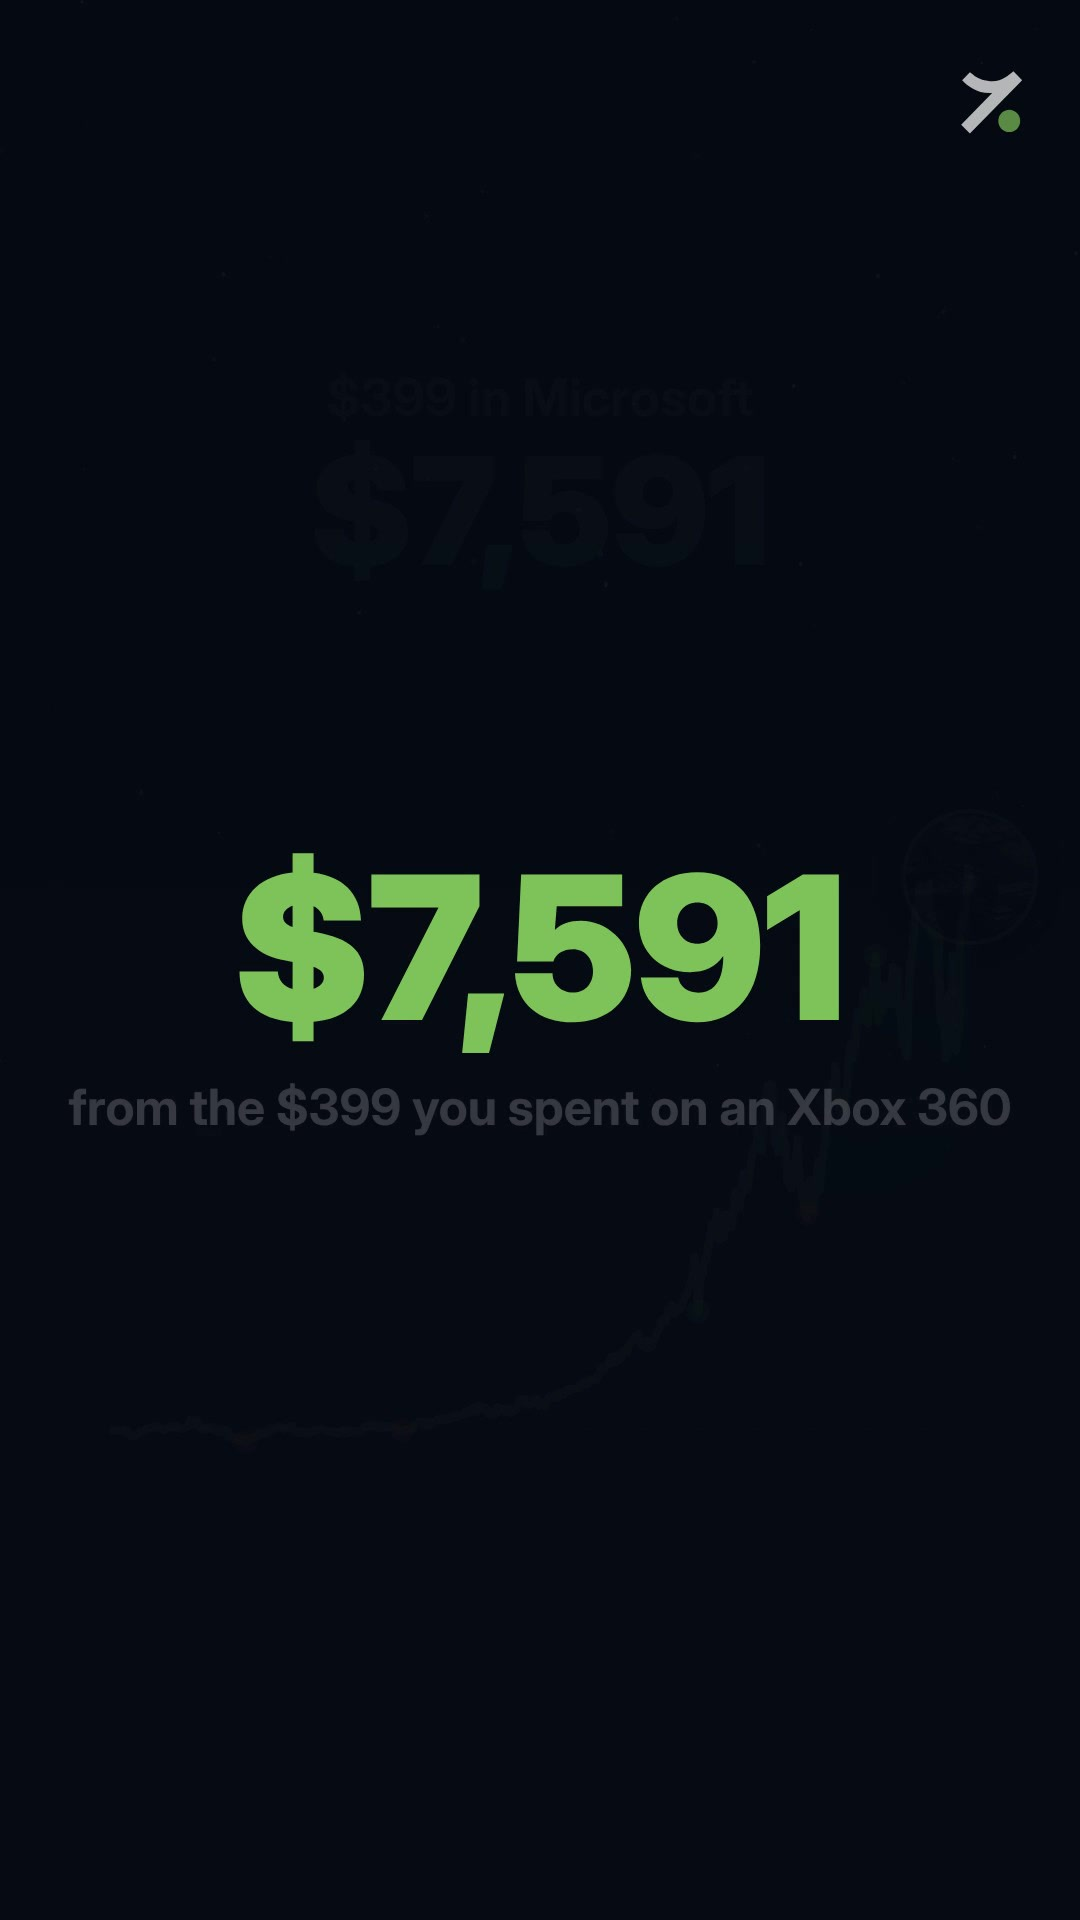
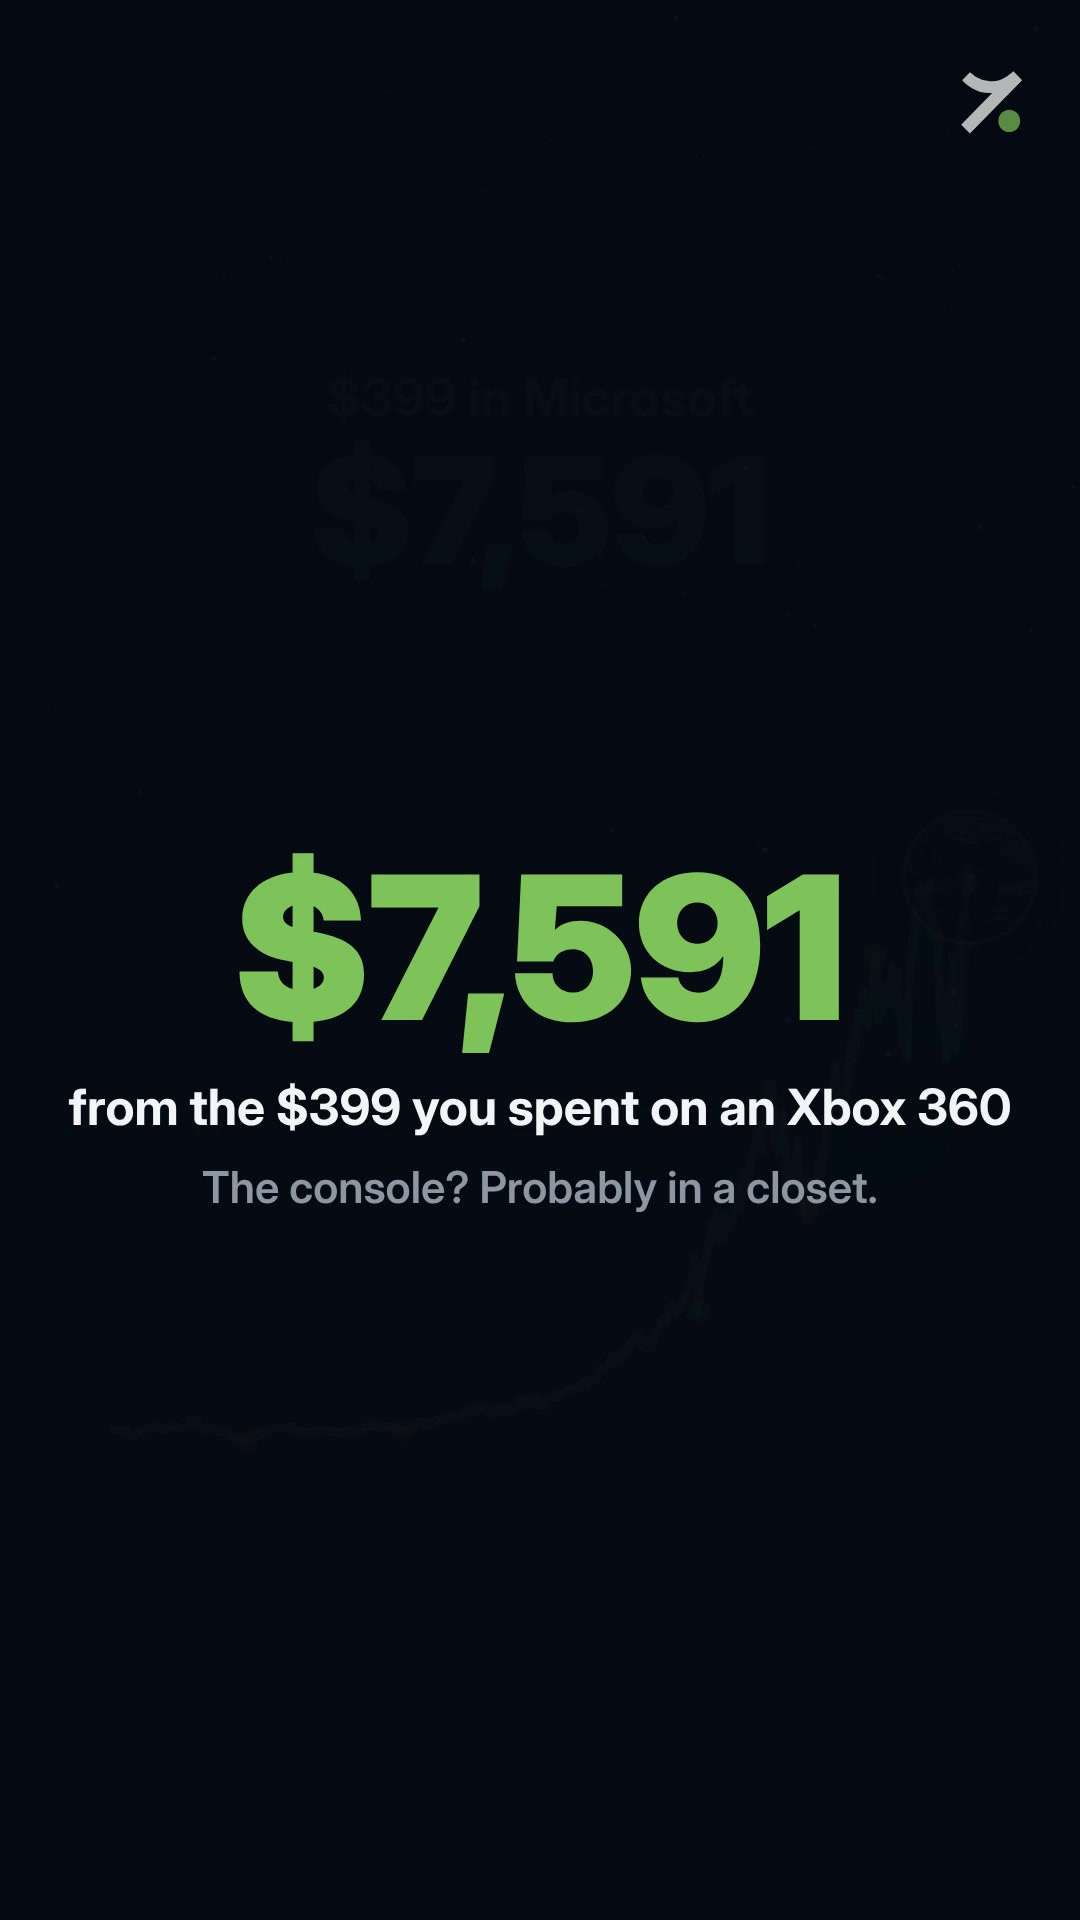
WHAT IF cover = full reveal frame
Claude-Session: https://claude.ai/code/session_01WrwvMu8sUQkTnoofcUnh86

Changed region(s): [[0.0611, 0.5625, 0.9472, 0.625]]

diff --git a/ig-news/stories/whatif.js b/ig-news/stories/whatif.js
@@ -10,7 +10,7 @@ const T = {year: .25, cash: 1.4, choice: 2.9, fly: 5.6, c0: 6.6, c1: 22.6, rev: 
 const LESSON = S.lesson, L0 = T.out + .6, LT = lessonTimes(L0, LESSON, 19);
 const LEND = LT[LT.length - 1] + LESSON[LESSON.length - 1].t.length / 19;
 window.DURATION = LEND + 3.2;
-window.COVER_T = T.rev + 1.6;            // cover = the reveal
+window.COVER_T = T.rev + 3.1;            // cover = the reveal
 const CX0 = 110, CX1 = 970, CY0 = 720, CY1 = 1460;           // chart box
 const fmt = v => '$' + Math.round(v).toLocaleString('en-US');
 const idxAt = t => clamp((t - T.c0) / (T.c1 - T.c0)) * (N - 1);
